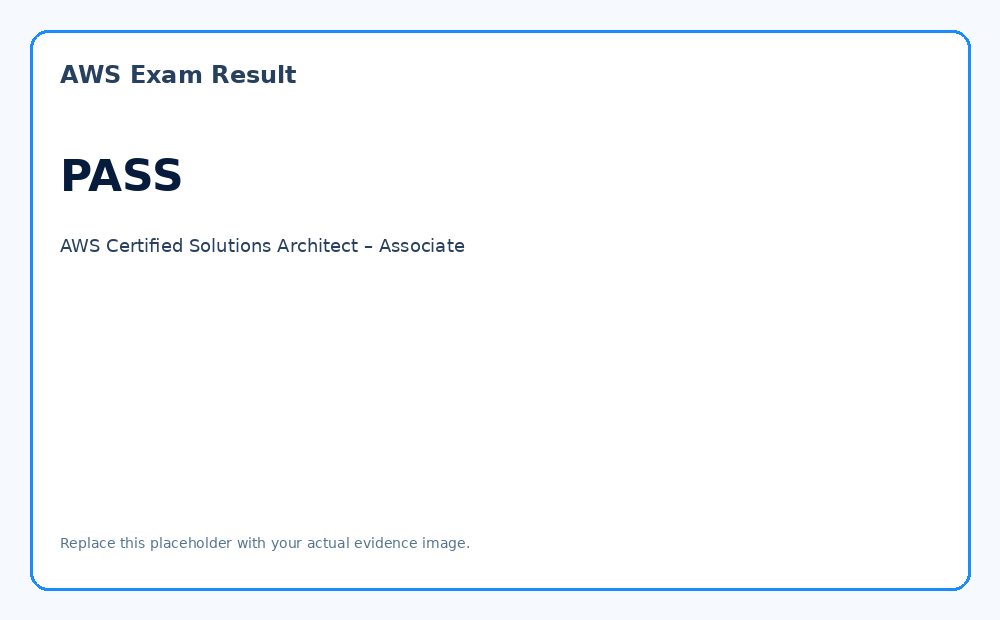
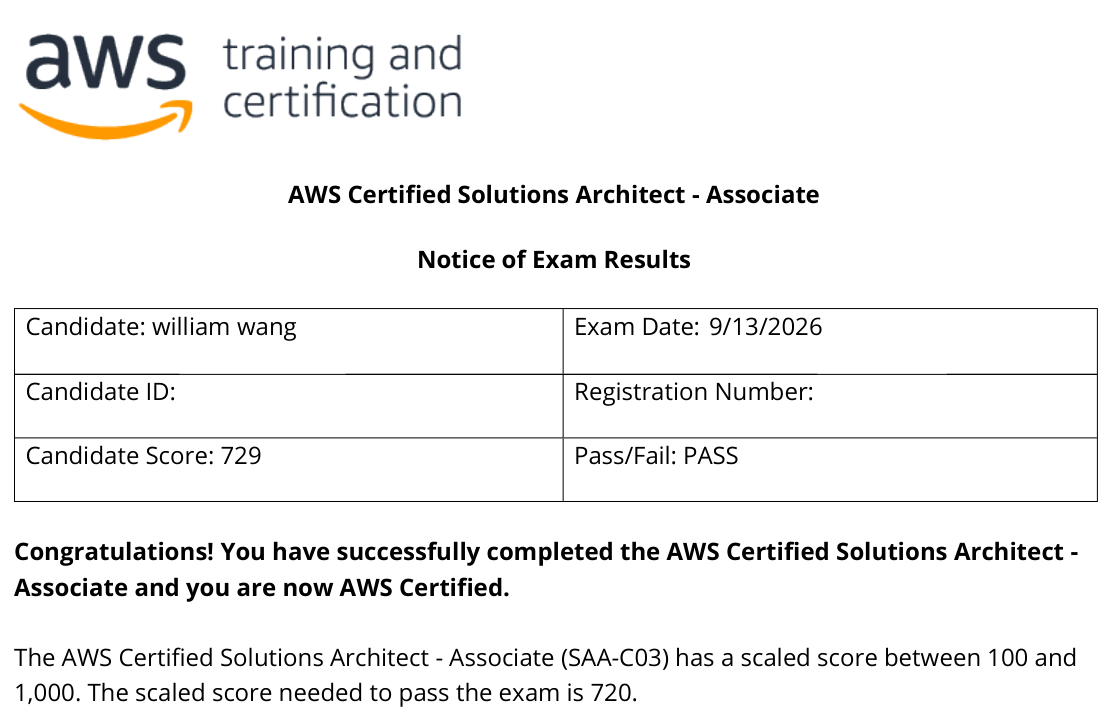
Update AWS images and PASS legal policies

diff --git a/LandingPage/templates/landing/medicine.html b/LandingPage/templates/landing/medicine.html
@@ -66,7 +66,7 @@
       </div>
 
       <p class="pass-transition-caption" id="passTransitionCaption">
-        Give incoming students a clear path to learning more in less time, with room for life outside school.
+        Start with your institution and follow a learning system built around the resources your school already provides.
       </p>
     </div>
 
@@ -378,6 +378,128 @@
   </form>
 
   <p class="pass-direct-contact">Prefer to contact us directly? <a href="mailto:WangMethodofLearning@gmail.com">WangMethodofLearning<wbr>@gmail.com</a></p>
+</section>
+
+<section class="pass-legal" aria-labelledby="pass-legal-title">
+  <div class="pass-legal-heading">
+    <p class="pass-section-kicker">Terms &amp; Privacy</p>
+    <h2 id="pass-legal-title">About Using WMOL PASS</h2>
+    <p>Review how the system works, the information it uses, and how to contact us about your account or your school's program.</p>
+  </div>
+<details class="pass-legal-accordion" id="terms">
+  <summary><span>Terms of Use</span><span class="pass-legal-chevron" aria-hidden="true"></span></summary>
+  <div class="pass-legal-document" aria-label="WMOL PASS Terms of Use">
+    <h3>WMOL PASS — Terms of Use</h3>
+    <p class="pass-legal-updated">Last updated: October 10, 2026</p>
+    <p>These Terms govern use of the Pre-Matriculation Academic Student Success system ("WMOL PASS" or "PASS"), offered by Wang Method LLC ("Wang Method," "we," or "us"). By using PASS, you agree to these Terms. If you do not agree, do not use the system. A separate signed agreement with a medical school or other institution governs that institution's license, implementation, and any terms that take precedence for its authorized users.</p>
+
+    <h4>1. What PASS provides</h4>
+    <p>PASS is an educational learning and study-organization system. It helps students understand, remember, apply, and consistently use educational materials and tools their school already provides. It is not a medical-care service, a clinical decision tool, or a substitute for instruction, examinations, academic advisers, or institutional policies.</p>
+    <p>PASS does not promise exam passage, academic credit, retention, remediation avoidance, graduation, admission, professional licensure, or any particular result. Examples, testimonials, and pilot findings describe specific experiences, not guaranteed outcomes for every student or school.</p>
+
+    <h4>2. Access and school enrollment</h4>
+    <p>Access is generally provided through a participating institution. You may be asked to select your school, enter an institution-issued activation code, verify an eligible email address through a one-time code, and use a registered device session. An activation code is for authorized enrollment and is not a transferable product key or permission to share access with others.</p>
+    <p>A WMOL account may hold more than one school or program enrollment when separately authorized. Records for different enrollments remain separate. Where supported, a user can have up to two active PASS device sessions and may need to revoke an old session before using a new installation. Do not share account credentials, verification codes, or device-session secrets.</p>
+
+    <h4>3. Using your institution's resources</h4>
+    <p>PASS helps organize the use of lectures, question banks, study materials, and other educational resources. Those resources remain subject to the school's or third-party provider's own license and policies. PASS does not transfer ownership of, include, or guarantee access to third-party materials such as Lecturio content. External tools, including optional artificial intelligence services, are separate services with their own practices and terms.</p>
+
+    <h4>4. Your learning records and feedback</h4>
+    <p>PASS may store school enrollment information, completed sessions and weeks, and responses to weekly reflections or surveys. Your institution and authorized program operators may use appropriate records for educational support, administration, and approved evaluation, subject to their agreements and applicable requirements. If a program includes research, research consent and participant protections are handled separately as required. Using PASS alone does not replace informed consent for a research study.</p>
+    <p>For details on collection, authorized access, and retention, expand the <a href="#privacy">Privacy Policy</a> below.</p>
+
+    <h4>5. Acceptable use</h4>
+    <p>Use PASS only for lawful and authorized educational activities. Do not impersonate another student, share enrollment codes, attempt to access another school's or learner's records, bypass access controls, disrupt services, scrape restricted content, or redistribute the software or its original materials without authorization. Nothing here limits rights that applicable law makes non-waivable.</p>
+
+    <h4>6. Intellectual property and permission to use</h4>
+    <p>Wang Method LLC or its licensors retain rights to the original PASS software, design, educational guidance, system organization, and original content. Subject to your institution's authorization and these Terms, you receive a limited, nonexclusive permission to use PASS for your own learning. Institution-provided materials and third-party works remain the property of their respective owners.</p>
+
+    <h4>7. Pricing and access duration</h4>
+    <p>PASS may be offered as a free-to-download app while actual program access requires an institution's activation and license. A free Store download does not give unrestricted access to participating schools or proprietary learning systems. Institutional pricing, license length, renewals, and procurement arrangements are governed by separate agreements with the institution, rather than a consumer subscription purchased in PASS.</p>
+
+    <h4>8. Changes, availability, and support</h4>
+    <p>We may update PASS, fix errors, revise instructional material, or change supported platforms. Features can be temporarily unavailable because of maintenance, internet connectivity, institutional configuration, or outside services. Schools and Wang Method may suspend or end access when an enrollment expires or when reasonably necessary for security, fraud prevention, or serious misuse.</p>
+
+    <h4>9. Responsibility and disclaimers</h4>
+    <p>PASS is provided on an "as available" basis. To the extent permitted by applicable law, Wang Method LLC disclaims implied warranties and is not responsible for indirect or consequential losses arising from service interruptions, lost study progress, reliance on educational examples, or particular examination results. Nothing in these Terms restricts statutory consumer rights or liability that cannot lawfully be excluded.</p>
+
+    <h4>10. Privacy, rights, and other terms</h4>
+    <p>Our <a href="#privacy">Privacy Policy</a> explains PASS information handling. Institution agreements, applicable student-record requirements, and separately approved research documentation may impose additional responsibilities. If these Terms conflict with an applicable mandatory legal requirement, that requirement controls. Texas law governs these Terms to the extent legally permitted, without overriding mandatory rights elsewhere.</p>
+
+    <h4>11. Changes to these Terms</h4>
+    <p>We may update these Terms when PASS or its operational requirements change. The update date above will identify revisions. Where legally required, we will provide additional notice or obtain consent before applying material changes.</p>
+
+    <h4>12. Contact</h4>
+    <p>Publisher: Wang Method LLC.<br>Questions, access concerns, or support: <a href="mailto:WangMethodOfLearning@gmail.com">WangMethodOfLearning@gmail.com</a>.</p>
+    <p class="pass-legal-direct"><a href="#terms" aria-label="Direct link to WMOL PASS Terms of Use">Direct link to these Terms</a></p>
+  </div>
+</details>
+
+<details class="pass-legal-accordion" id="privacy">
+  <summary><span>Privacy Policy</span><span class="pass-legal-chevron" aria-hidden="true"></span></summary>
+  <div class="pass-legal-document" aria-label="WMOL PASS Privacy Policy">
+    <h3>WMOL PASS — Privacy Policy</h3>
+    <p class="pass-legal-updated">Last updated: October 10, 2026</p>
+    <p>This policy explains how Wang Method LLC ("Wang Method," "we," or "us") handles information through the Pre-Matriculation Academic Student Success system ("WMOL PASS" or "PASS"). PASS is designed primarily for institution-authorized students. Its information practices are different from the individual subscription and device-linking features in other WMOL companion apps.</p>
+
+    <h4>1. Main points</h4>
+    <ul>
+      <li>We use information to verify enrollment, operate PASS, save learning progress, support students, and provide authorized program evaluation.</li>
+      <li>PASS can hold student-linked progress and weekly survey responses on its servers; these records are not exclusively stored on a student's device.</li>
+      <li>We do not sell learners' personal information or use their academic records for third-party advertising.</li>
+      <li>Access to school-specific records is restricted to authorized users and operational purposes, under applicable institutional and legal requirements.</li>
+      <li>Retention requirements for institutional and approved research records depend on the program; there is not one automatic deletion deadline for every enrollment.</li>
+    </ul>
+
+    <h4>2. Information PASS processes</h4>
+    <p>Depending on your institution and the features you use, PASS processes: your verified email address and WMOL user identifier; the school or program you select; enrollment and activation status; one-time verification events; completed learning sessions, weekly progress, and completion records; weekly reflection or survey responses, including optional text; and feedback you choose to send to support.</p>
+    <p>The app and backend also handle randomly issued device-session identifiers and credentials, authentication tokens, app settings, and technical information needed for account security and troubleshooting. Hosting and security systems may process IP addresses, request timestamps, device/browser information, and ordinary service logs. Do not include health records, patient information, or other sensitive third-party data in optional survey text or support messages.</p>
+
+    <h4>3. Activation and authentication</h4>
+    <p>When you activate PASS, you select an eligible institution, enter its activation code, and verify an email address using a one-time code. Depending on institutional policy, your email may need to belong to an approved domain or match a pre-authorized enrollment. PASS uses Amazon Cognito for account authentication and related Amazon Web Services infrastructure for authorized account and program functions.</p>
+    <p>The backend is designed to keep protected representations of activation codes rather than store raw redeemed codes in routine enrollment data. Supported clients store sign-in and device-session credentials using platform-protected storage. Never send a verification code, activation code, or private device credential in a support email.</p>
+
+    <h4>4. Learning, progress, and surveys</h4>
+    <p>PASS records progress so you can resume work and complete your institution's learning program. Weekly surveys or reflections can help identify where learners need additional support. Responses may be associated with your school enrollment and are not anonymous merely because an export replaces your name with a participant identifier.</p>
+    <p>School and program personnel may receive aggregated or appropriately limited data where authorized. Routine analytical exports are designed to use pseudonymous participant identifiers by default. Identified records may be accessed or exported only for an authorized function that requires identification, subject to the institution's agreements, permissions, and applicable requirements.</p>
+
+    <h4>5. Purposes for using information</h4>
+    <p>We process relevant information to verify eligibility and login; enforce access and registered-device limits; provide the four-week study workflow; preserve progress and survey responses; provide institutional support and appropriately authorized evaluation; troubleshoot technical issues; detect misuse; maintain security and service reliability; and meet legal or recordkeeping obligations.</p>
+    <p>We do not use individual PASS progress or survey responses to target third-party ads.</p>
+
+    <h4>6. Institutions, approved research, and disclosures</h4>
+    <p>PASS may operate under agreements with schools or other educational institutions. Which personnel can access particular records, whether evaluation is part of a program, and whether any research use is permitted depend on the approved implementation and applicable requirements. Where research consent is required, that process must be handled separately. Downloading or opening PASS is not itself an authorization to use identifiable student records for an unrelated study.</p>
+    <p>Information may also be shared with vendors that operate the service on our behalf, with authorized support personnel, or where required by law or reasonably necessary to address fraud or security threats. We do not sell personal information.</p>
+
+    <h4>7. Service providers and external resources</h4>
+    <p>PASS uses Amazon Web Services components for functions such as verified sign-in, application programming, data storage, email verification, service monitoring, and security logging. The website may be delivered through its hosting and network providers. Institution-provided resources and optional external study tools, including Lecturio and AI services you choose to open separately, have their own privacy policies. They are not part of PASS simply because PASS can be used alongside them.</p>
+
+    <h4>8. Security and storage</h4>
+    <p>We use access restrictions, authenticated requests, protected client credentials, and security controls appropriate to this service. Enrollment records are separated by institution or program. Survey answers and authentication secrets should not appear in routine application access logs. No internet service or device storage is completely secure.</p>
+
+    <h4>9. Data retention</h4>
+    <p>Temporary verification or rate-limit records may expire automatically. School enrollment, progress, and survey records do not all have an automatic expiration date in the current system. The appropriate retention or deletion schedule must reflect the institution's approved program requirements, any applicable research commitments, legal obligations, and support or security needs. We will not promise a fixed deletion interval until one applies to the relevant program.</p>
+    <p>Operational logs may have different retention periods from educational records. Some independent records held by hosting, mail, security, or other providers may remain under their own applicable duties.</p>
+
+    <h4>10. Access, correction, and deletion requests</h4>
+    <p>To ask about information reasonably controlled by Wang Method LLC, email <a href="mailto:WangMethodOfLearning@gmail.com">WangMethodOfLearning@gmail.com</a> and identify your institution and the nature of your request. We may need to confirm your identity and institutional enrollment before responding. A school may also have its own student-record request process.</p>
+    <p>Some records cannot be changed or deleted immediately where approved institutional retention, research integrity, security investigations, or applicable law require their preservation. Removing the app from your device alone does not necessarily delete the enrollment, progress, or survey data stored on PASS servers.</p>
+
+    <h4>11. Children and sensitive information</h4>
+    <p>PASS is designed for students entering professional and higher education and is not directed to children under 13. We do not ask users to submit patient records, protected health information, confidential case information, or other sensitive third-party information in this system.</p>
+
+    <h4>12. Regional rights and international use</h4>
+    <p>Depending on where you live, applicable law may provide rights to access, correct, delete, or receive information, or to challenge certain processing. We will handle verified requests as applicable law requires and coordinate with the relevant institution where it controls the records.</p>
+
+    <h4>13. Changes to this policy</h4>
+    <p>We will update this policy if PASS adds material features such as new institutional reporting, cloud synchronization, analytics, billing, or other information uses. The date at the top will be changed to reflect revisions. Material changes will be communicated when required.</p>
+
+    <h4>14. Contact</h4>
+    <p>Privacy and support contact: Wang Method LLC at <a href="mailto:WangMethodOfLearning@gmail.com">WangMethodOfLearning@gmail.com</a>.</p>
+    <p class="pass-legal-direct"><a href="#privacy" aria-label="Direct link to WMOL PASS Privacy Policy">Direct link to this Privacy Policy</a></p>
+  </div>
+</details>
+
 </section>
 
 <footer class="pass-footer">
@@ -1215,37 +1337,37 @@ document.addEventListener("DOMContentLoaded", () => {
     {
       src: "{% static 'img/wmol-pass/01-entry.jpg' %}",
       alt: "WMOL PASS entry screen with institution selection",
-      caption: "Give incoming students a clear path to learning more in less time, with room for life outside school."
+      caption: "Start with your institution and follow a learning system built around the resources your school already provides."
     },
     {
       src: "{% static 'img/wmol-pass/02-weekly-overview.jpg' %}",
       alt: "WMOL PASS four-week overview showing Week 1",
-      caption: "Guide students through four weeks of learning to understand, remember, apply, and stay consistent."
+      caption: "See the four-week path before you begin, so you know what each week is helping you build."
     },
     {
       src: "{% static 'img/wmol-pass/03-todays-work.jpg' %}",
       alt: "WMOL PASS Today’s Work instructions and session button",
-      caption: "Show students what to work on today so they can get started without planning each session from scratch."
+      caption: "Open today’s session and see exactly what to work on, without planning everything again."
     },
     {
       src: "{% static 'img/wmol-pass/04-implementation-guide.jpg' %}",
       alt: "WMOL PASS implementation guide with steps and AI prompts",
-      caption: "Help students understand their own course material with clear steps, examples, and ready-to-use AI prompts."
+      caption: "Use the guide and its prompts to ask better questions about material you still need to understand."
     },
     {
       src: "{% static 'img/wmol-pass/05-memory-example.jpg' %}",
       alt: "WMOL PASS worked example turning a concept into a memorable story",
-      caption: "Teach students to turn complex material into simple stories they can recall and use to answer questions."
+      caption: "Turn difficult ideas into memorable examples you can recall when answering questions."
     },
     {
       src: "{% static 'img/wmol-pass/06-desktop-lecturio.png' %}",
       alt: "WMOL PASS desktop app beside Lecturio course materials",
-      caption: "Help students put the system to work alongside the lectures and practice questions your school already provides."
+      caption: "Keep PASS beside Lecturio or your school’s resources, and put the system to work as you study."
     },
     {
       src: "{% static 'img/wmol-pass/07-weekly-reflection.jpg' %}",
       alt: "WMOL PASS weekly reflection survey on studying and progress",
-      caption: "Use weekly check-ins to spot difficulties early and offer support before students fall further behind."
+      caption: "Reflect on each week so you and your school can spot problems while there’s still time to help."
     }
   ];
 
@@ -1786,5 +1908,28 @@ if (rail.dataset.mobileCarousel === "system") {
 });
 </script>
 
+
+<script id="wmol-pass-legal-direct-links">
+(() => {
+  const names = new Set(['terms', 'privacy']);
+  function openLinkedDocument() {
+    let name = '';
+    try { name = decodeURIComponent(window.location.hash.slice(1)).toLowerCase(); }
+    catch (_) { return; }
+    if (!names.has(name) || !document.getElementById('wmol-medicine')) return;
+    const target = document.getElementById(name);
+    if (!target || target.tagName !== 'DETAILS') return;
+    target.open = true;
+    requestAnimationFrame(() => requestAnimationFrame(() => {
+      target.scrollIntoView({block:'start', inline:'nearest', behavior:'auto'});
+    }));
+  }
+  if (document.readyState === 'loading') {
+    document.addEventListener('DOMContentLoaded', openLinkedDocument, {once:true});
+  } else { openLinkedDocument(); }
+  window.addEventListener('hashchange', openLinkedDocument);
+  window.addEventListener('pageshow', openLinkedDocument);
+})();
+</script>
 
 {% endblock %}

diff --git a/LandingPage/templates/landing/aws-saa.html b/LandingPage/templates/landing/aws-saa.html
@@ -930,6 +930,19 @@
 .aws5-policy-links a{color:var(--aws5-teal);text-decoration:underline;}
 
 html.wmol-phone-device.wmol-phone-landscape .aws5-info-grid a[data-panel] { padding:10px 6px !important; font-size:clamp(.84rem,calc(var(--wmol-phone-design-w) * 0.033),1rem) !important; }
+
+/* 2026-10-10: two distinct, source-based certification proofs. */
+.aws5-evidence-grid img { background:#fff; object-fit:contain; object-position:center; }
+.aws5-evidence-grid figcaption { font-size:clamp(.78rem,.88vw,.97rem)!important; line-height:1.35; text-align:center; }
+.aws5-evidence-grid figure { min-width:0; }
+.aws5-proof-intro { margin-top:16px!important; }
+@media (min-width:701px) and (orientation:landscape) {
+  .aws5-evidence-grid img { height:clamp(168px,12vw,235px)!important; }
+}
+@media (max-width:700px) {
+  .aws5-evidence-grid { grid-template-columns:1fr!important; }
+  .aws5-evidence-grid img { width:100%;height:auto!important;max-height:360px!important; }
+}
 </style>
 <!-- WMOL AWS website policy links 2026-10-09 -->
 
@@ -937,15 +950,15 @@ html.wmol-phone-device.wmol-phone-landscape .aws5-info-grid a[data-panel] { padd
 (() => {
   const STATIC_BASE = "/static/img/aws-saa/";
   const previews = [
-    { src: STATIC_BASE + "carousel-01-welcome.jpg", alt: "AWS SAA Companion App welcome screen", caption: "Work toward AWS certification with a clear next step each time you study." },
-    { src: STATIC_BASE + "carousel-02-system-plan.jpg", alt: "AWS SAA learning, practice and review schedule", caption: "Follow a schedule for learning, practice, and review that helps preparation fit around your life." },
-    { src: STATIC_BASE + "shot-05-desktop-plan.png", alt: "AWS SAA desktop study plan preview", caption: "Conveniently follow the Learning System on your computer with any additional resources open beside it." },
-    { src: STATIC_BASE + "carousel-04-study-resources.jpg", alt: "AWS SAA study resources organized by week", caption: "Find this week’s study material or quickly return to a topic you need to review." },
-    { src: STATIC_BASE + "carousel-05-resource-detail.jpg", alt: "AWS SAA study resource explaining the shared responsibility model", caption: "Understand AWS concepts through plain-language explanations that connect what they mean to how you use them." },
-    { src: STATIC_BASE + "carousel-06-practice-question.jpg", alt: "AWS SAA practice question and answer choices", caption: "Put what you’ve learned to work by choosing the right solution for each situation." },
-    { src: STATIC_BASE + "carousel-07-question-bank.jpg", alt: "AWS SAA question bank guide and topic selection", caption: "Choose specific topics or mix them together to strengthen weak areas and prepare for different kinds of questions." },
-    { src: STATIC_BASE + "carousel-08-light-mode.jpg", alt: "AWS SAA Companion App welcome screen in light mode", caption: "Switch between light and dark mode to study in the view you find most comfortable." },
-    { src: STATIC_BASE + "carousel-09-full-access.jpg", alt: "AWS SAA full access plan and included learning resources", caption: "Bring learning, practice, review, and final exam preparation together in one complete plan." }
+    { src: STATIC_BASE + "carousel-01-welcome.jpg", alt: "AWS SAA Companion App welcome screen", caption: "Open the app and pick up where you left off, without figuring out where to begin again." },
+    { src: STATIC_BASE + "carousel-02-system-plan.jpg", alt: "AWS SAA learning, practice, and review schedule", caption: "Follow a clear plan for what to learn, practice, and review each day." },
+    { src: STATIC_BASE + "carousel-04-study-resources.jpg", alt: "AWS SAA weekly study resources", caption: "See what matters this week and get straight to the material you need." },
+    { src: STATIC_BASE + "carousel-05-resource-detail.jpg", alt: "Plain-language AWS SAA concept explanation", caption: "Work through difficult AWS concepts until they actually make sense." },
+    { src: STATIC_BASE + "carousel-03-desktop-ai.jpg", alt: "WMOL AWS SAA desktop app shown beside ChatGPT in a Windows desktop layout", caption: "Keep WMOL beside ChatGPT, a course, or another resource so you can ask questions without losing your place." },
+    { src: STATIC_BASE + "carousel-06-practice-question.jpg", alt: "AWS SAA practice question", caption: "Put what you've learned to work and see where your reasoning still needs attention." },
+    { src: STATIC_BASE + "carousel-07-question-bank.jpg", alt: "AWS SAA question bank and topic selection", caption: "Choose what to practice, revisit what you missed, and make weak areas more reliable." },
+    { src: STATIC_BASE + "carousel-08-light-mode.jpg", alt: "AWS SAA light-mode screen", caption: "Switch between light and dark mode so the app fits the way you like to study." },
+    { src: STATIC_BASE + "carousel-09-full-access.jpg", alt: "AWS SAA Full Access and study plan", caption: "Bring learning, practice, and review together, then move toward test day at your own pace." }
   ];
 
   const panelHtml = {
@@ -1009,9 +1022,10 @@ html.wmol-phone-device.wmol-phone-landscape .aws5-info-grid a[data-panel] { padd
         <p>The purpose of the test wasn’t to show that everyone should or must pass the AWS SAA in seven days, but to answer a different question:</p>
         <h3 class="aws5-tested-question">Can you use the systems and still move toward your goals even when studying isn’t the only priority in your life?</h3>
         <p class="aws5-tested-answer"><strong>The answer is yes, you can.</strong></p>
+        <p class="aws5-proof-intro">Here is the result from that test and the credential it earned.</p>
         <div class="aws5-evidence-grid">
-          <figure><img src="${STATIC_BASE}pass-result.png" alt="AWS exam pass result"><figcaption>AWS Exam Pass Result</figcaption></figure>
-          <figure><img src="${STATIC_BASE}credential.png" alt="AWS Credly badge"><figcaption>AWS Credly Badge</figcaption></figure>
+          <figure><img src="${STATIC_BASE}pass-result.png" loading="lazy" alt="Official AWS certification result: passing score 729, with 720 required; personal candidate numbers hidden"><figcaption>Official AWS exam result: 729 (720 required)</figcaption></figure>
+          <figure><img src="${STATIC_BASE}credential.png" loading="lazy" alt="AWS Certified Solutions Architect Associate blue Credly certification badge and issuer"><figcaption>AWS Solutions Architect – Associate credential</figcaption></figure>
         </div>
         <p class="aws5-disclaimer">Individual starting points, schedules, and preparation times will vary.</p>
       </div>`,

diff --git a/LandingPage/static/css/styles.css b/LandingPage/static/css/styles.css
@@ -20605,3 +20605,113 @@ html:root[data-wmol-nav-locked="true"] .home-viewport.domains-page #go-medicine 
   background:transparent !important;border-color:var(--gold) !important;
   box-shadow:none !important;transform:none !important;transition:none !important;
 }
+
+
+/* ============================================================
+   WMOL PASS on-page Terms & Privacy - staging 2026-10-10
+   These are scoped additions. No other WMOL screens are altered.
+   ============================================================ */
+html:root #wmol-medicine.medicine-layout .pass-page .pass-legal {
+  width:min(100%,920px);max-width:100%;margin:0 auto clamp(38px,5vw,70px);
+  padding:0 clamp(0px,2vw,12px); color:var(--ink);min-width:0;
+  overflow:visible; box-sizing:border-box;
+}
+html:root #wmol-medicine.medicine-layout .pass-page .pass-legal-heading {
+  max-width:780px; margin:0 auto 20px; text-align:center;
+}
+html:root #wmol-medicine.medicine-layout .pass-page .pass-legal-heading > h2 {
+  font-family:"Times New Roman",Georgia,serif; font-weight:700;
+  font-size:clamp(1.45rem,2.6vw,2.3rem); line-height:1.14;
+  color:var(--ink-title); margin:4px 0 10px;
+}
+html:root #wmol-medicine.medicine-layout .pass-page .pass-legal-heading > p:last-child {
+  font-family:Georgia,"Times New Roman",serif; font-size:clamp(.94rem,1.2vw,1.09rem);
+  line-height:1.55; margin:0; color:var(--ink);
+}
+html:root #wmol-medicine.medicine-layout .pass-page details.pass-legal-accordion {
+  box-sizing:border-box; width:100%;max-width:100%;min-width:0;
+  margin:12px 0 0; padding:0; border:1px solid rgba(75,54,39,.24);
+  background:rgba(255,255,255,.56); border-radius:12px;
+  box-shadow:0 3px 14px rgba(75,54,39,.05);overflow:hidden;
+  scroll-margin-top:clamp(12px,3vh,28px);
+}
+html:root #wmol-medicine.medicine-layout .pass-page details.pass-legal-accordion[open] {
+  border-color:rgba(115,83,42,.48); background:rgba(255,255,255,.72);
+}
+html:root #wmol-medicine.medicine-layout .pass-page .pass-legal-accordion > summary {
+  list-style:none;display:flex;justify-content:space-between;align-items:center;
+  gap:14px;min-height:60px;padding:15px clamp(15px,2.7vw,27px);
+  color:var(--ink-title);font-family:"Times New Roman",Georgia,serif;
+  font-weight:700;font-size:clamp(1.08rem,1.55vw,1.42rem);
+  line-height:1.22;cursor:pointer;user-select:none;-webkit-user-select:none;
+}
+html:root #wmol-medicine.medicine-layout .pass-page .pass-legal-accordion > summary::-webkit-details-marker {display:none;}
+html:root #wmol-medicine.medicine-layout .pass-page .pass-legal-accordion > summary::marker {content:"";}
+html:root #wmol-medicine.medicine-layout .pass-page .pass-legal-chevron {
+  display:inline-block;width:11px;height:11px;flex:none;
+  border-right:2px solid currentColor;border-bottom:2px solid currentColor;
+  transform:rotate(45deg);transition:transform .18s ease;margin-right:5px;
+}
+html:root #wmol-medicine.medicine-layout .pass-page .pass-legal-accordion[open] .pass-legal-chevron {
+  transform:rotate(225deg);
+}
+html:root #wmol-medicine.medicine-layout .pass-page .pass-legal-accordion > summary:focus-visible,
+html:root #wmol-medicine.medicine-layout .pass-page .pass-legal-document a:focus-visible {
+  outline:3px solid #886326;outline-offset:3px;
+}
+html:root #wmol-medicine.medicine-layout .pass-page .pass-legal-document {
+  box-sizing:border-box;max-width:100%;min-width:0;
+  padding:clamp(17px,3vw,30px);border-top:1px solid rgba(75,54,39,.14);
+  overflow:visible;
+}
+html:root #wmol-medicine.medicine-layout .pass-page .pass-legal-document,
+html:root #wmol-medicine.medicine-layout .pass-page .pass-legal-document * {
+  -webkit-user-select:text!important;user-select:text!important;caret-color:auto!important;
+  overflow-wrap:anywhere;
+}
+html:root #wmol-medicine.medicine-layout .pass-page .pass-legal-document h3 {
+  font-size:clamp(1.3rem,2vw,1.9rem)!important;line-height:1.2!important;
+  font-family:"Times New Roman",Georgia,serif!important; margin:0 0 9px!important;color:var(--ink-title)!important;
+}
+html:root #wmol-medicine.medicine-layout .pass-page .pass-legal-document h4 {
+  font-family:"Times New Roman",Georgia,serif!important;font-size:clamp(1.02rem,1.36vw,1.26rem)!important;
+  line-height:1.32!important;font-weight:700!important;margin:25px 0 9px!important;
+  color:var(--ink-title)!important;
+}
+html:root #wmol-medicine.medicine-layout .pass-page .pass-legal-document p,
+html:root #wmol-medicine.medicine-layout .pass-page .pass-legal-document li {
+  font-family:Georgia,"Times New Roman",serif!important;
+  color:#433429!important;font-size:clamp(.96rem,1.12vw,1.1rem)!important;
+  line-height:1.66!important;font-weight:400!important;text-align:left!important;
+}
+html:root #wmol-medicine.medicine-layout .pass-page .pass-legal-document p {margin:0 0 14px!important;}
+html:root #wmol-medicine.medicine-layout .pass-page .pass-legal-document ul {margin:0 0 18px;padding-left:clamp(18px,3vw,28px);}
+html:root #wmol-medicine.medicine-layout .pass-page .pass-legal-document li {margin:0 0 8px;}
+html:root #wmol-medicine.medicine-layout .pass-page .pass-legal-document a {
+  color:#70481a!important;text-decoration:underline!important;text-underline-offset:2px;
+}
+html:root #wmol-medicine.medicine-layout .pass-page .pass-legal-document .pass-legal-updated {
+  font-size:.9rem!important;opacity:.75;margin-bottom:20px!important;
+}
+html:root #wmol-medicine.medicine-layout .pass-page .pass-legal-document .pass-legal-direct {
+  border-top:1px solid rgba(75,54,39,.16);margin-top:25px!important;padding-top:16px;
+  font-size:.92rem!important;
+}
+@media (max-width:700px) {
+  html:root #wmol-medicine.medicine-layout .pass-page .pass-legal {
+    padding:0;margin-bottom:42px;
+  }
+  html:root #wmol-medicine.medicine-layout .pass-page .pass-legal-accordion > summary {
+    min-height:56px;padding:13px 16px;font-size:1.15rem;
+  }
+  html:root #wmol-medicine.medicine-layout .pass-page .pass-legal-document {
+    padding:18px 16px 22px;
+  }
+  html:root #wmol-medicine.medicine-layout .pass-page .pass-legal-document p,
+  html:root #wmol-medicine.medicine-layout .pass-page .pass-legal-document li {
+    font-size:1rem!important;line-height:1.58!important;
+  }
+}
+@media (prefers-reduced-motion:reduce) {
+  html:root #wmol-medicine.medicine-layout .pass-page .pass-legal-chevron {transition:none;}
+}

diff --git a/LandingPage/templates/base.html b/LandingPage/templates/base.html
@@ -1,10 +1,10 @@
 <!doctype html>
-<html lang="en" data-wmol-release="carousel-images-43">
+<html lang="en" data-wmol-release="pass-legal-aws-proof-44">
   <head>
     <meta name="view-transition" content="same-origin">
     <meta charset="utf-8">
     <meta name="viewport" content="width=device-width, initial-scale=1, viewport-fit=cover">
-    <link rel="stylesheet" href="/static/css/styles.css?v=wmol-carousel-images-43">
+    <link rel="stylesheet" href="/static/css/styles.css?v=wmol-pass-legal-aws-proof-44">
     <script>
       (function () {
         var root = document.documentElement;
